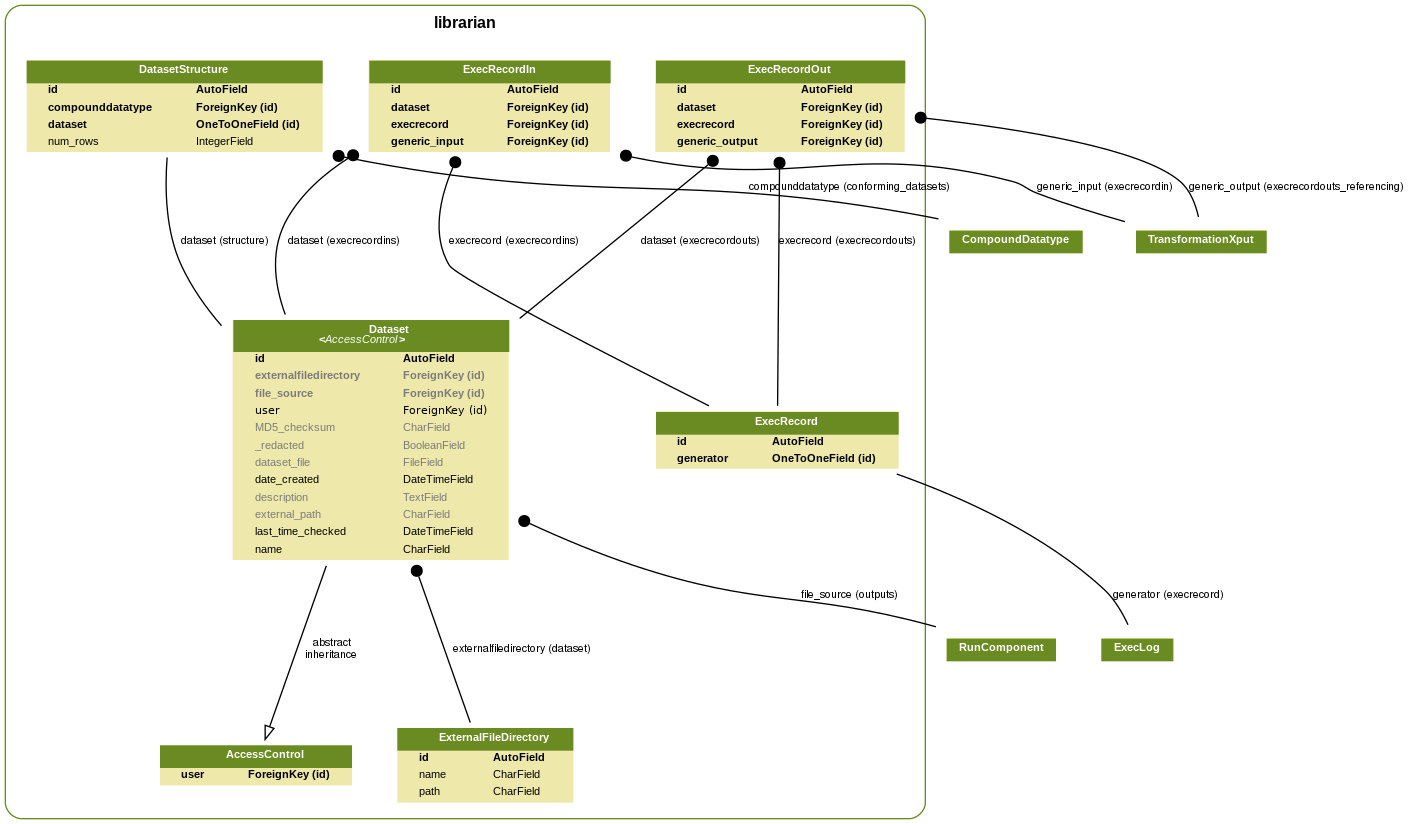
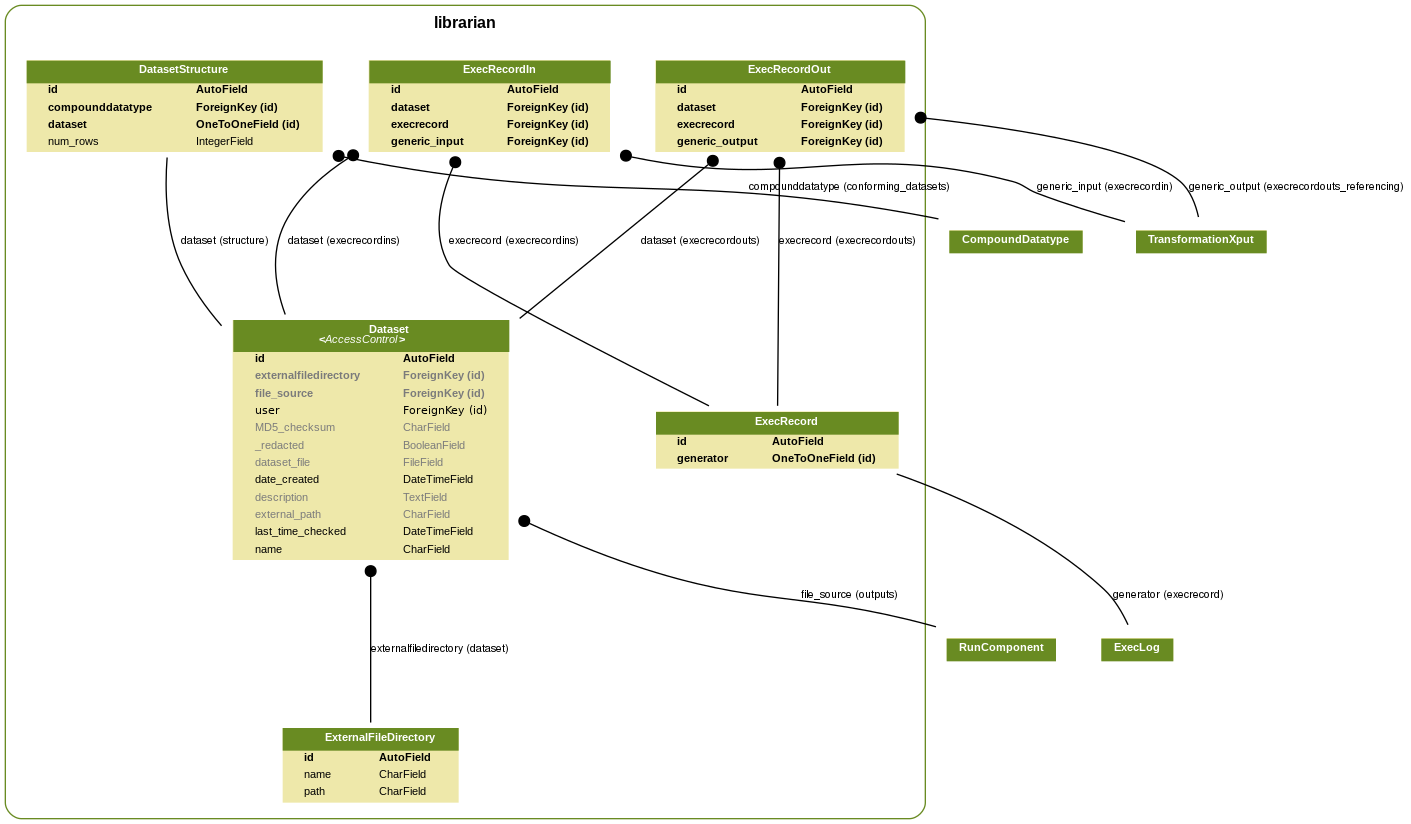
Simplify model diagrams by hiding AccessControl (part of #739).
Also break an import cycle by removing link from librarian to method.

diff --git a/kive/librarian/models.py b/kive/librarian/models.py
@@ -33,7 +33,6 @@ from django.db.models import Min
 from django.db.models.signals import post_delete
 from django.core.urlresolvers import reverse
 
-import method.models
 import pipeline.models
 import transformation.models
 import datachecking.models
@@ -1606,7 +1605,7 @@ class ExecRecord(models.Model):
         inputs_list = [str(eri) for eri in self.execrecordins.all()]
         outputs_list = [str(ero) for ero in self.execrecordouts.all()]
 
-        if type(self.general_transf()) == method.models.Method:
+        if self.general_transf().is_method():
             return "{}({}) = ({})".format(
                     self.general_transf(),
                     ", ".join(inputs_list),
@@ -1686,7 +1685,7 @@ class ExecRecord(models.Model):
         input_SDs = [x.dataset for x in self.execrecordouts.all()]
         self.generating_run.validate_restrict_access(input_SDs)
 
-        if not isinstance(self.general_transf(), method.models.Method):
+        if not self.general_transf().is_method():
             # If the cable is quenched:
             if eris.exists() and eros.exists():
 
@@ -2247,7 +2246,7 @@ class ExecRecordOut(models.Model):
             # must *exactly* be generic_output's CDT since it was
             # generated by this Method.
 
-            if isinstance(self.execrecord.general_transf(), method.models.Method):
+            if self.execrecord.general_transf().is_method():
                 if input_SD.structure.compounddatatype != self.generic_output.get_cdt():
                     raise ValidationError(
                         ('CDT of Dataset "{}" is not the CDT of the '

diff --git a/kive/portal/management/commands/graph_kive.py b/kive/portal/management/commands/graph_kive.py
@@ -19,12 +19,15 @@ class Command(BaseCommand):
         apps.sort()
         for app in apps:
             print(app)
+            exclude_models = ['User', 'Group']
+            if app != 'metadata':
+                exclude_models.append('AccessControl')
             call_command("graph_models",
                          app,
                          pygraphviz=True,
                          group_models=True,
                          outputfile=os.path.join(docs_path, app+'.png'),
-                         exclude_models="User,Group")
+                         exclude_models=','.join(exclude_models))
 
         readme_path = os.path.join(docs_path, 'README.md')
         with open(readme_path, 'rU+') as f:

diff --git a/kive/container/models.py b/kive/container/models.py
@@ -1,5 +1,4 @@
 # -*- coding: utf-8 -*-
-from __future__ import unicode_literals
 import errno
 import logging
 import os
@@ -22,7 +21,6 @@ from metadata.models import AccessControl, empty_removal_plan, remove_helper
 from stopwatch.models import Stopwatch
 
 logger = logging.getLogger(__name__)
-
 
 
 class ContainerFamily(AccessControl):
